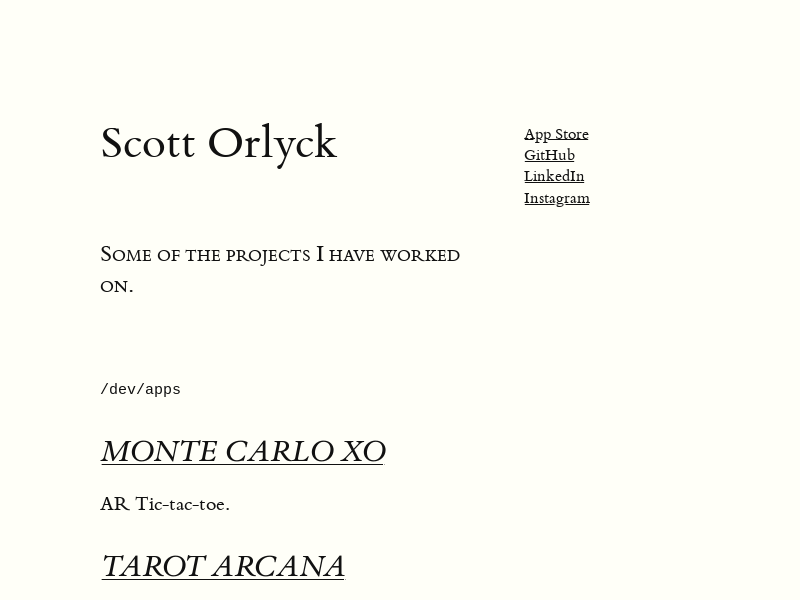
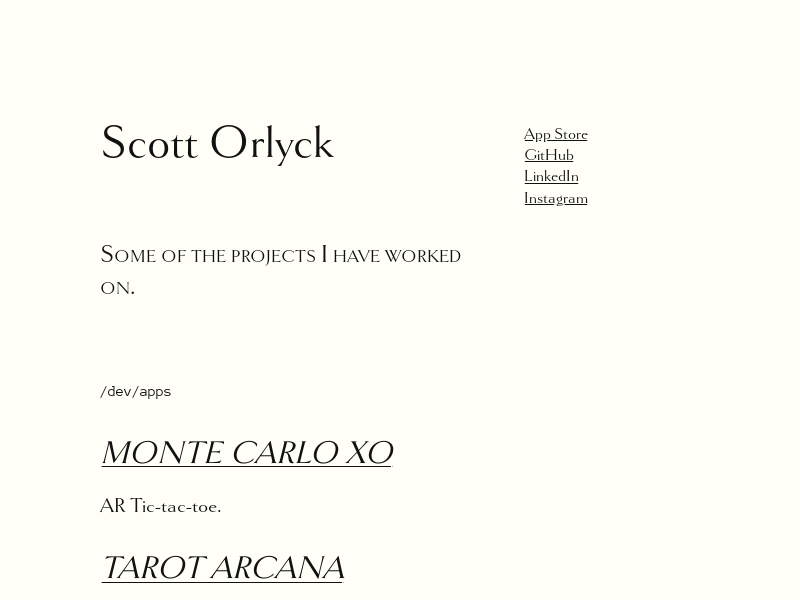
Render, commit, and deploy to gh pages.

diff --git a/docs/assets/index.6d5f6ba6.css b/docs/assets/index.6d5f6ba6.css
@@ -1,0 +1,1 @@
+@import"https://use.typekit.net/hax1mrg.css";html{font-size:15px}body{background-color:#fffff8;color:#111;counter-reset:sidenote-counter;font-family:goldenbook;margin-left:auto;margin-right:auto;max-width:1400px;padding-left:12.5%;width:87.5%}@media (color-index:48){body{background-color:#151515;color:#ddd}}@media (color:48842621){body{background-color:#151515;color:#ddd}}@media (prefers-color-scheme:dark){body{background-color:#151515;color:#ddd}}h1{font-size:3.2rem;font-weight:400;line-height:1;margin-bottom:1.5rem;margin-top:4rem}h2{font-size:2.2rem;margin-top:2.1rem}h2,h3{font-style:italic;font-weight:400;line-height:1;margin-bottom:1.4rem}h3{font-size:1.7rem;margin-top:2rem}hr{border:0;border-top:1px solid #ccc;display:block;height:1px;margin:1em 0;padding:0;width:55%}p.subtitle{display:block;font-size:1.8rem;font-style:italic;line-height:1;margin-bottom:1rem;margin-top:1rem}.numeral{font-family:goldenbook}.danger{color:red}article{padding:5rem 0}section{padding-bottom:1rem;padding-top:1rem}dl,ol,p,ul{font-size:1.4rem;line-height:2rem}p{margin-bottom:1.4rem;margin-top:1.4rem;padding-right:0;vertical-align:baseline}div.epigraph{margin:5em 0}div.epigraph>blockquote{margin-bottom:3em;margin-top:3em}div.epigraph>blockquote,div.epigraph>blockquote>p{font-style:italic}div.epigraph>blockquote>footer{font-style:normal}div.epigraph>blockquote>footer>cite{font-style:italic}blockquote{font-size:1.4rem}blockquote p{margin-right:40px;width:55%}blockquote footer{font-size:1.1rem;text-align:right;width:55%}section>footer,section>p,section>table{width:55%}section>dl,section>ol,section>ul{-webkit-padding-start:5%;width:50%}dt:not(:first-child),li:not(:first-child){margin-top:.25rem}figure{-webkit-margin-start:0;-webkit-margin-end:0;border:0;font-size:100%;font:inherit;margin:0 0 3em;max-width:55%;padding:0}figcaption,figure{vertical-align:baseline}figcaption{clear:right;float:right;font-size:1.1rem;line-height:1.6;margin-bottom:0;margin-top:0;max-width:40%;position:relative}figure.fullwidth figcaption{margin-right:24%}a:link,a:visited{color:inherit}.no-tufte-underline:link{background:transparent none repeat 0 0/auto auto padding-box border-box scroll;background:initial;text-shadow:inherit}.hover-tufte-underline:hover,.tufte-underline,a:link{background:linear-gradient(#fffff8,#fffff8),linear-gradient(#fffff8,#fffff8),linear-gradient(currentColor,currentColor);background-position:0 93%,100% 93%,0 93%;background-repeat:no-repeat,no-repeat,repeat-x;background-size:.05em 1px,.05em 1px,1px 1px;text-decoration:none;text-shadow:.03em 0 #fffff8,-.03em 0 #fffff8,0 .03em #fffff8,0 -.03em #fffff8,.06em 0 #fffff8,-.06em 0 #fffff8,.09em 0 #fffff8,-.09em 0 #fffff8,.12em 0 #fffff8,-.12em 0 #fffff8,.15em 0 #fffff8,-.15em 0 #fffff8}@media screen and (-webkit-min-device-pixel-ratio:0){.hover-tufte-underline:hover,.tufte-underline,a:link{background-position-y:87%,87%,87%}}@media (color-index:48){.hover-tufte-underline:hover,.tufte-underline,a:link{text-shadow:.03em 0 #151515,-.03em 0 #151515,0 .03em #151515,0 -.03em #151515,.06em 0 #151515,-.06em 0 #151515,.09em 0 #151515,-.09em 0 #151515,.12em 0 #151515,-.12em 0 #151515,.15em 0 #151515,-.15em 0 #151515}}@media (color:48842621){.hover-tufte-underline:hover,.tufte-underline,a:link{text-shadow:.03em 0 #151515,-.03em 0 #151515,0 .03em #151515,0 -.03em #151515,.06em 0 #151515,-.06em 0 #151515,.09em 0 #151515,-.09em 0 #151515,.12em 0 #151515,-.12em 0 #151515,.15em 0 #151515,-.15em 0 #151515}}@media (prefers-color-scheme:dark){.hover-tufte-underline:hover,.tufte-underline,a:link{text-shadow:.03em 0 #151515,-.03em 0 #151515,0 .03em #151515,0 -.03em #151515,.06em 0 #151515,-.06em 0 #151515,.09em 0 #151515,-.09em 0 #151515,.12em 0 #151515,-.12em 0 #151515,.15em 0 #151515,-.15em 0 #151515}}a:link::-moz-selection{background:#b4d5fe;text-shadow:.03em 0 #b4d5fe,-.03em 0 #b4d5fe,0 .03em #b4d5fe,0 -.03em #b4d5fe,.06em 0 #b4d5fe,-.06em 0 #b4d5fe,.09em 0 #b4d5fe,-.09em 0 #b4d5fe,.12em 0 #b4d5fe,-.12em 0 #b4d5fe,.15em 0 #b4d5fe,-.15em 0 #b4d5fe}a:link::-moz-selection,a:link::selection{background:#b4d5fe;text-shadow:.03em 0 #b4d5fe,-.03em 0 #b4d5fe,0 .03em #b4d5fe,0 -.03em #b4d5fe,.06em 0 #b4d5fe,-.06em 0 #b4d5fe,.09em 0 #b4d5fe,-.09em 0 #b4d5fe,.12em 0 #b4d5fe,-.12em 0 #b4d5fe,.15em 0 #b4d5fe,-.15em 0 #b4d5fe}img{max-width:100%}.marginnote,.sidenote{clear:right;float:right;font-size:1.1rem;line-height:1.3;margin-bottom:0;margin-right:-60%;margin-top:.3rem;position:relative;vertical-align:baseline;width:50%}.sidenote-number{counter-increment:sidenote-counter}.sidenote-number:after,.sidenote:before{font-family:goldenbook;position:relative;vertical-align:baseline}.sidenote-number:after{content:counter(sidenote-counter);font-size:1rem;left:.1rem;top:-.5rem}.sidenote:before{content:counter(sidenote-counter) " ";font-size:1rem;top:-.5rem}blockquote .marginnote,blockquote .sidenote{margin-right:-82%;min-width:59%;text-align:left}div.fullwidth,table.fullwidth{width:100%}div.table-wrapper{font-family:Trebuchet MS,Gill Sans,Gill Sans MT,sans-serif;overflow-x:auto}.sans{font-family:Gill Sans,Gill Sans MT,Calibri,sans-serif;letter-spacing:.03em}code,pre>code{-webkit-text-size-adjust:100%;font-family:anonymous-pro,monospace;font-size:1rem;line-height:1.42}.sans>code{font-size:1.2rem}h1>code,h2>code,h3>code{font-size:.8em}.marginnote>code,.sidenote>code{font-size:1rem}pre>code{display:block;font-size:.9rem;margin-left:2.5%;overflow-x:auto;width:52.5%}pre.fullwidth>code{width:90%}.fullwidth{clear:both;max-width:90%}span.newthought{-webkit-font-feature-settings:"smcp";font-feature-settings:"smcp";font-size:1.2em;font-variant:small-caps}input.margin-toggle{display:none}label.sidenote-number{display:inline-block;max-height:2rem}label.margin-toggle:not(.sidenote-number){display:none}.iframe-wrapper{height:0;padding-bottom:56.25%;padding-top:25px;position:relative}.iframe-wrapper iframe{height:100%;left:0;position:absolute;top:0;width:100%}@media (max-width:760px){body{padding-left:8%;padding-right:8%;width:84%}hr,section>footer,section>p,section>table{width:100%}pre>code{width:97%}section>dl,section>ol,section>ul{width:90%}figure{max-width:90%}figcaption,figure.fullwidth figcaption{margin-right:0;max-width:none}blockquote{margin-left:1.5em;margin-right:0}blockquote footer,blockquote p{width:100%}label.margin-toggle:not(.sidenote-number){display:inline}.marginnote,.sidenote{display:none}.margin-toggle:checked+.marginnote,.margin-toggle:checked+.sidenote{clear:both;display:block;float:left;left:1rem;margin:1rem 2.5%;position:relative;vertical-align:baseline;width:95%}label{cursor:pointer}div.table-wrapper,table{width:85%}img{width:100%}}.title{margin-bottom:0;margin-top:0}

diff --git a/docs/index.html b/docs/index.html
@@ -2,9 +2,9 @@
         <meta name="viewport" content="width=device-width,initial-scale=1">
         <meta charset="utf-8">
       
-      <link rel="stylesheet" href="/assets/index.166fc4fa.css">
+      <link rel="stylesheet" href="/assets/index.6d5f6ba6.css">
     <link rel="icon" type="image/x-icon" href="https://raw.githubusercontent.com/scottorly/scottorly.github.io/main/fav.png"><meta name="Description" content="Scott Orlyck's website."><meta name="twitter:title" content="Scott Orlyck"><meta name="twitter:description" content="Scott Orlyck's website."><meta name="twitter:image" content="https://raw.githubusercontent.com/scottorly/scottorly.github.io/main/thumbnail.png"><meta name="twitter:card" content="summary_large_image"><meta name="twitter:site" content="https://scottorly.github.io"><meta name="twitter:creator" content="@orlyck"><meta property="og:url" content="https://scottorly.github.io"><meta property="og:title" content="Scott Orlyck"><meta property="og:description" content="Scott Orlyck's website."><meta property="og:image" content="https://raw.githubusercontent.com/scottorly/scottorly.github.io/main/thumbnail.png"><meta property="og:image:secure" content="https://raw.githubusercontent.com/scottorly/scottorly.github.io/main/thumbnail.png"><script async="true" defer="true" data-domain="scottorly.github.io" src="https://plausible.io/js/plausible.js"></script></head>
     <body>
     
 
-<article><section><p><label for="links" class="margin-toggle">⊕</label><input type="checkbox" id="links" class="margin-toggle"><span class="marginnote"><a target="_blank" rel="noreferrer noopener" href="https://apps.apple.com/us/developer/scott-orlyck/id1082162815">App Store</a> <br><a target="_blank" rel="noreferrer noopener" href="https://github.com/scottorly">GitHub</a> <br><a target="_blank" rel="noreferrer noopener" href="https://linkedin.com/in/scottorlyck">LinkedIn</a> <br><a target="_blank" rel="noreferrer noopener" href="https://www.instagram.com/scottorlyck/">Instagram</a> <br></span><h1 class="title">Scott Orlyck</h1></p></section><section><p><span class="newthought">Some of the projects I have worked on.</span></p></section><section><p><code>/dev/apps</code></p><h2><a target="_blank" rel="noreferrer noopener" href="https://montecarloxo.com">MONTE CARLO XO</a></h2><p>AR Tic-tac-toe.</p><h2><a target="_blank" rel="noreferrer noopener" href="https://tarotarcana.app">TAROT ARCANA</a></h2><p>AR Divination Simulator.</p><h2><a target="_blank" rel="noreferrer noopener" href="https://coviz19.dev">COVIZ-19</a></h2><p>Animated choropleth visualization of US COVID-19 data from JHU.</p></section><section><p><code>/dev/words</code></p><h2><a href="https://scottorly.github.io/taskmaster">TASKMASTER</a></h2><p>Swift Concurrency &amp; UIKit.</p><h2><a href="https://scottorly.github.io/drive2combine">DRIVE II: COMBINE</a></h2><p>Driving Combine.</p><h2><a href="https://scottorly.github.io/drive">DRIVE</a></h2><p>RxSwift UI Patterns.</p></section><section><p><code>/dev/work</code></p><h2><a target="_blank" rel="noreferrer noopener" href="https://apps.apple.com/us/app/get-help-app/id1319554390">GET HELP</a></h2><p></p><h2><a target="_blank" rel="noreferrer noopener" href="https://appadvice.com/app/hallmark-shoebox/1210937098">HALLMARK SHOEBOX</a></h2><p></p><h2><a target="_blank" rel="noreferrer noopener" href="https://download.cnet.com/Hallmark-Digital-Postage/3000-2094_4-78463978.html">HALLMARK DIGITAL POSTAGE</a></h2><p></p><h2><a target="_blank" rel="noreferrer noopener" href="https://vimeo.com/85466100">REALM BLAZER</a></h2></section><div class="epigraph"><p><code>/dev/禅宗</code></p><blockquote><p>令威儀齊整，然後結跏趺坐。</p><p><em>Command a solemn orderliness, then sit in the lotus posture.</em></p></blockquote></div></article></body></html>
+<article><section><p><label for="links" class="margin-toggle">⊕</label><input type="checkbox" id="links" class="margin-toggle"><span class="marginnote"><a target="_blank" rel="noreferrer noopener" href="https://apps.apple.com/us/developer/scott-orlyck/id1082162815">App Store</a> <br><a target="_blank" rel="noreferrer noopener" href="https://github.com/scottorly">GitHub</a> <br><a target="_blank" rel="noreferrer noopener" href="https://linkedin.com/in/scottorlyck">LinkedIn</a> <br><a target="_blank" rel="noreferrer noopener" href="https://www.instagram.com/scottorlyck/">Instagram</a> <br></span><h1 class="title">Scott Orlyck</h1></p></section><section><p><span class="newthought">Some of the projects I have worked on.</span></p></section><section><p><code>/dev/apps</code></p><h2><a target="_blank" rel="noreferrer noopener" href="https://montecarloxo.com">MONTE CARLO XO</a></h2><p>AR Tic-tac-toe.</p><h2><a target="_blank" rel="noreferrer noopener" href="https://tarotarcana.app">TAROT ARCANA</a></h2><p>AR Divination Simulator.</p><h2><a target="_blank" rel="noreferrer noopener" href="https://coviz19.dev">COVIZ-19</a></h2><p>Animated choropleth visualization of US COVID-19 data from JHU.</p></section><section><p><code>/dev/words</code></p><h2><a href="https://scottorly.github.io/taskmaster">TASKMASTER</a></h2><p>Swift Concurrency &amp; UIKit.</p><h2><a href="https://scottorly.github.io/drive2combine">DRIVE II: COMBINE</a></h2><p>Driving Combine.</p><h2><a href="https://scottorly.github.io/drive">DRIVE</a></h2><p>RxSwift UI Patterns.</p></section><section><p><code>/dev/work</code></p><h2><a target="_blank" rel="noreferrer noopener" href="https://apps.apple.com/us/app/get-help-app/id1319554390">GET HELP</a></h2><p></p><h2><a target="_blank" rel="noreferrer noopener" href="https://appadvice.com/app/hallmark-shoebox/1210937098">HALLMARK SHOEBOX</a></h2><p></p><h2><a target="_blank" rel="noreferrer noopener" href="https://download.cnet.com/Hallmark-Digital-Postage/3000-2094_4-78463978.html">HALLMARK DIGITAL POSTAGE</a></h2><p></p><h2><a target="_blank" rel="noreferrer noopener" href="https://vimeo.com/85466100">REALM BLAZER</a></h2></section><div class="epigraph"><p><code>/dev/禅宗</code></p><blockquote><p>一切善惡都莫思量，念起即覺，覺之即失，久久忘緣，自成一片。此坐禪之要術也。</p><p><em>All together don't think of good or evil, when a thought arises become aware of it, awareness dissolves the thought, forgetful of conditions for a long time, mind naturally becomes unified. This is the essential method of seated meditation.</em></p></blockquote></div></article></body></html>
